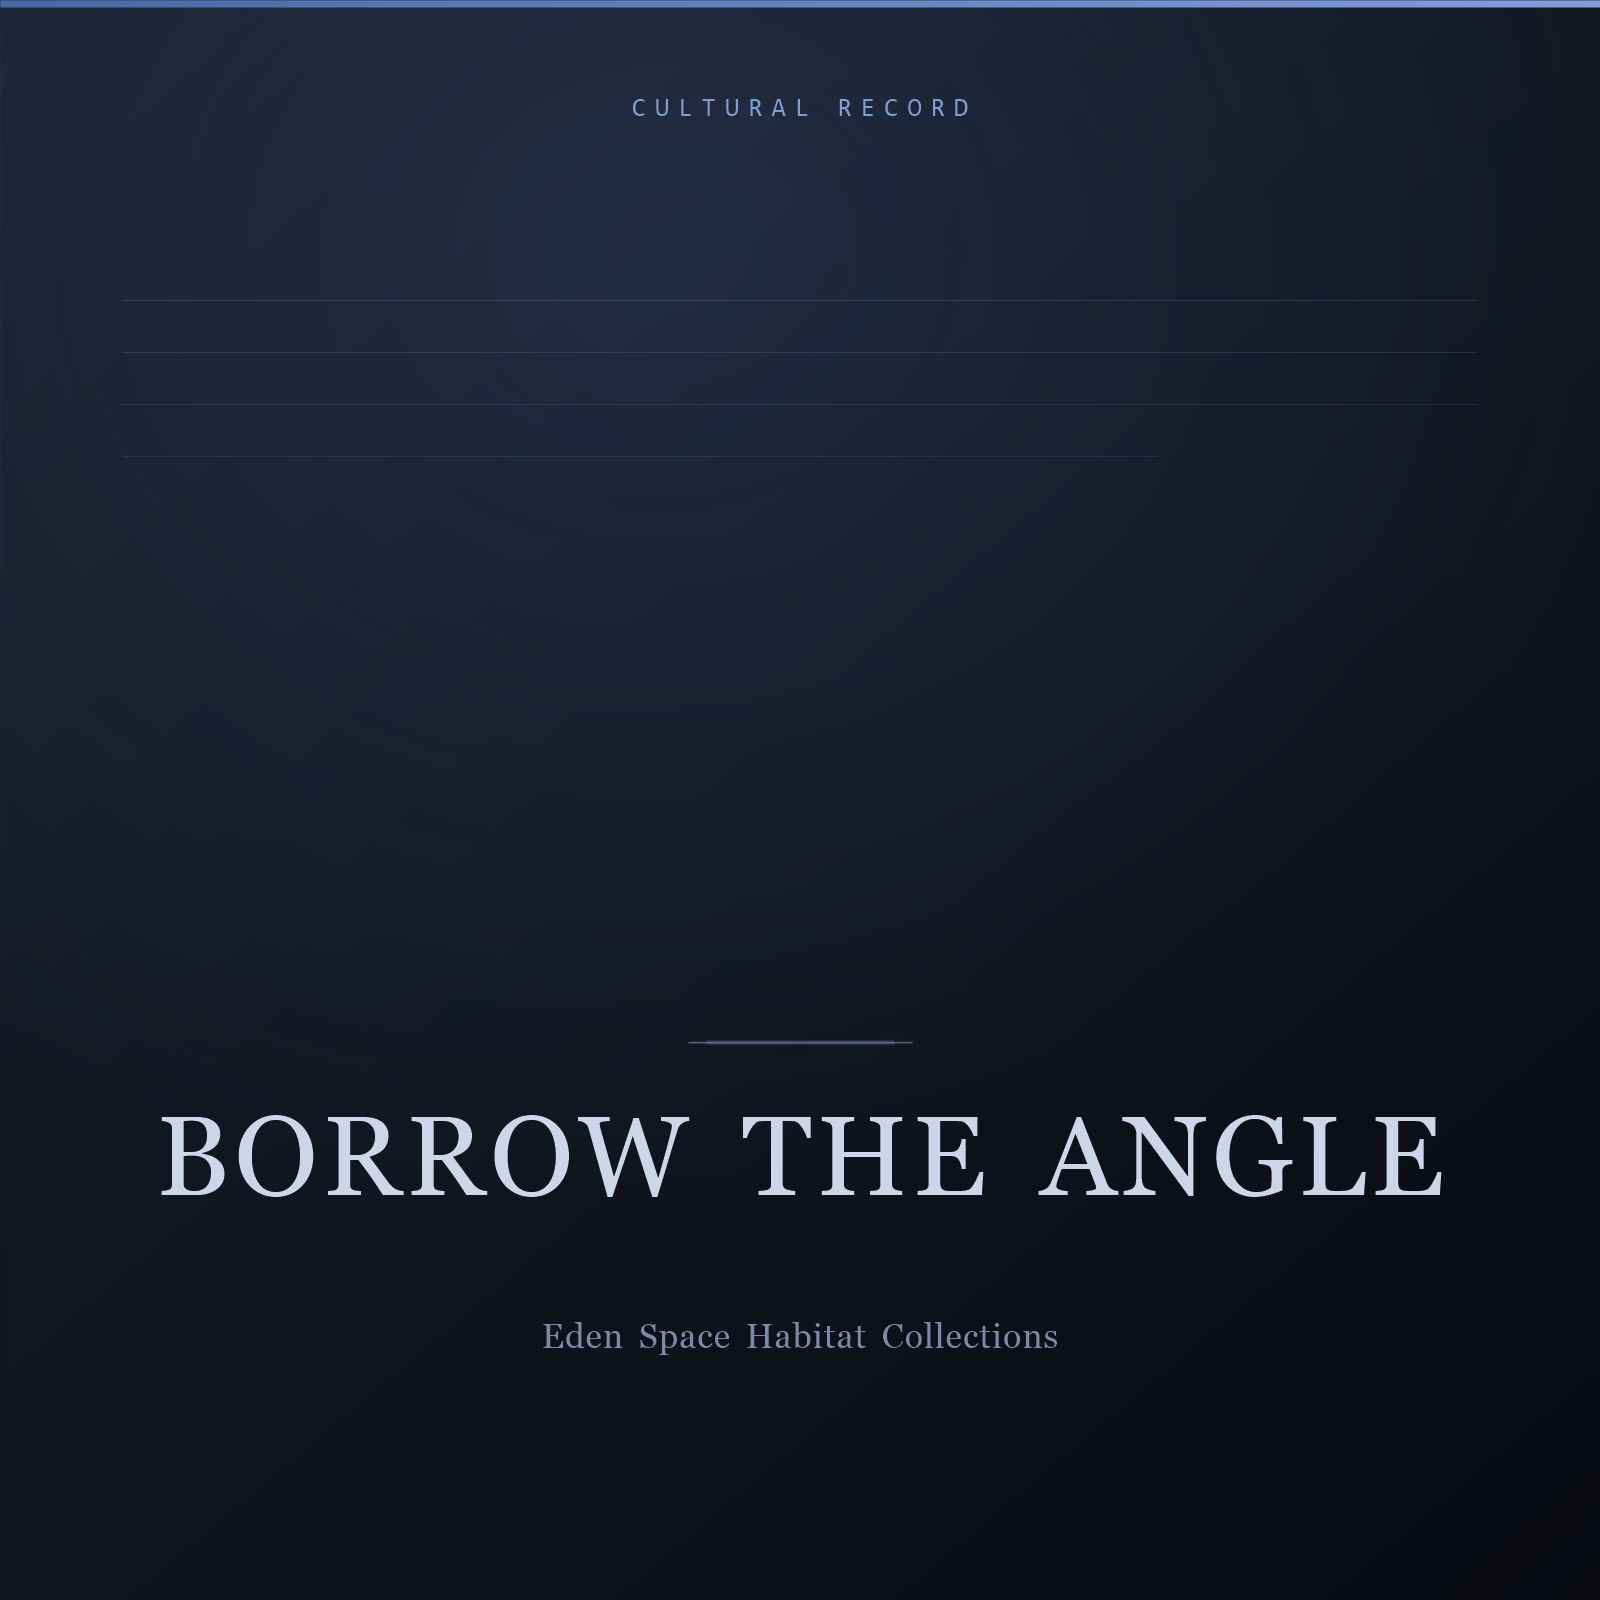
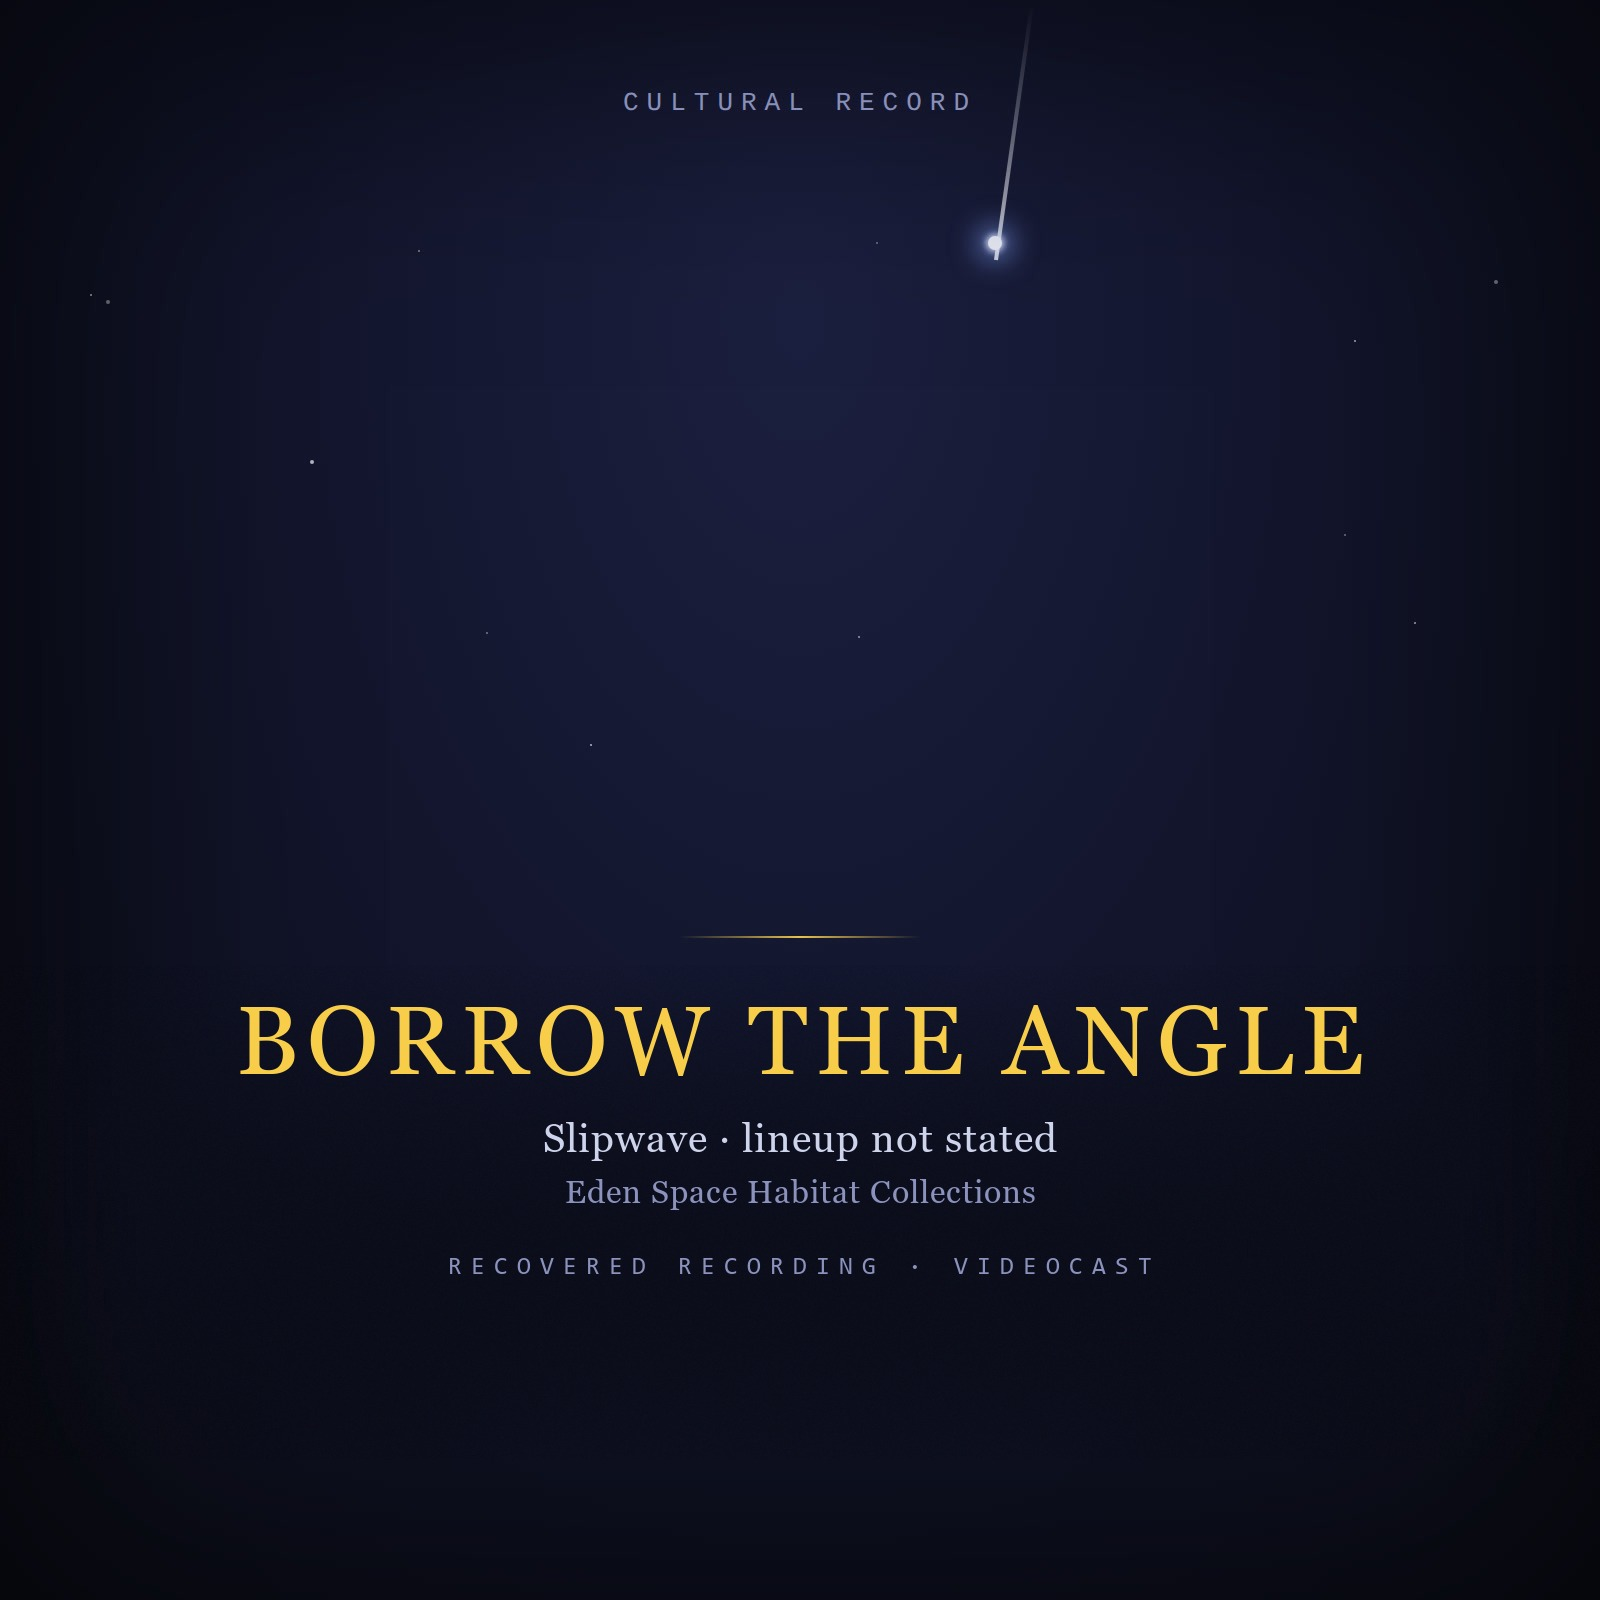
Match the two newer Slipwave covers to the set

diff --git a/story-bible/reference-art/slipwave_cover.py b/story-bible/reference-art/slipwave_cover.py
@@ -1,0 +1,64 @@
+"""Remake a Slipwave codex cover in the set's look from the Anthem cover.
+py slipwave_cover.py OUT "LINE 1" ["LINE 2"]"""
+import sys
+import numpy as np
+from PIL import Image, ImageDraw, ImageFont, ImageFilter
+
+BASE = 'src/images/codex/star-rangers-anthem.jpg'
+out, lines = sys.argv[1], sys.argv[2:]
+im = Image.open(BASE).convert('RGB')
+a = np.asarray(im).astype(np.float32)
+H, W, _ = a.shape
+y0, y1 = 965, 1460          # the text block under the gold rule
+xl, xr = 140, 1460          # clean margins either side of it
+# start from a per-row interpolation between the clean margins
+for y in range(y0, y1):
+    left = a[y, xl - 20:xl].mean(axis=0)
+    right = a[y, xr:xr + 20].mean(axis=0)
+    tt = np.linspace(0, 1, xr - xl)[:, None]
+    a[y, xl:xr] = left * (1 - tt) + right * tt
+# then let the surrounding pixels diffuse in (a harmonic fill follows the vignette)
+Y0, Y1, X0, X1 = y0 - 40, y1 + 40, xl - 40, xr + 40
+r = 12
+for _ in range(400):
+    sub = a[Y0:Y1, X0:X1]
+    c = np.cumsum(np.cumsum(np.pad(sub, ((r + 1, r), (r + 1, r), (0, 0)), mode='edge'), 0), 1)
+    k = 2 * r + 1
+    box = (c[k:, k:] - c[:-k, k:] - c[k:, :-k] + c[:-k, :-k]) / (k * k)
+    a[y0:y1, xl:xr] = box[y0 - Y0:y1 - Y0, xl - X0:xr - X0]
+rng = np.random.default_rng(3)
+a[y0:y1] += rng.normal(0, 1.2, a[y0:y1].shape)
+im = Image.fromarray(a.clip(0, 255).astype(np.uint8))
+d = ImageDraw.Draw(im)
+
+gold = (247, 205, 74)
+pale = (206, 212, 236)
+muted = (140, 146, 190)
+title_font = ImageFont.truetype('georgia.ttf', 96)
+sub_font = ImageFont.truetype('georgia.ttf', 40)
+sub2_font = ImageFont.truetype('georgia.ttf', 32)
+mono = ImageFont.truetype('consola.ttf', 25)
+
+def spaced(text, font, tracking):
+    w = sum(d.textlength(c, font=font) for c in text) + tracking * (len(text) - 1)
+    return w
+
+def draw_tracked(y, text, font, fill, tracking):
+    w = spaced(text, font, tracking)
+    x = (W - w) / 2
+    for c in text:
+        d.text((x, y), c, font=font, fill=fill)
+        x += d.textlength(c, font=font) + tracking
+
+y = 985
+for ln in lines:
+    draw_tracked(y, ln, title_font, gold, 8)
+    y += 108
+y += 22
+draw_tracked(y, 'Slipwave · lineup not stated', sub_font, pale, 1)
+y += 58
+draw_tracked(y, 'Eden Space Habitat Collections', sub2_font, muted, 1)
+y += 82
+draw_tracked(y, 'RECOVERED RECORDING · VIDEOCAST', mono, muted, 9)
+im.save(out, quality=92)
+print('wrote', out)

diff --git a/CHANGELOG.md b/CHANGELOG.md
@@ -6,6 +6,8 @@ The format loosely follows [Keep a Changelog](https://keepachangelog.com/en/1.1.
 
 ## [Unreleased]
 
+- **The two newer Slipwave codex covers now match the set** (`src/images/codex/borrow-the-angle.jpg`, `odonata-raise-your-banners.jpg`, both entries' `image_alt`, `story-bible/image-prompts.md`, 2026-10-11, at Dermot's word that the codex songs should carry the existing covers). Built from the Anthem cover's starfield and trailing star with the new titles in gold serif, replacing the plain cards of 8 October.
+
 - **Photorealism audit of the lore and hero images** (`story-bible/images.md`, 2026-10-11, from Dermot's question whether images such as the Prismeri are photorealistic enough). Every non-card image under `src/images/lore/` and `src/images/hero/` that is not one of his own frames was judged by eye: 94 read as photographs, 39 do not (the twelve-image Prismere and Prismeri set, seven hero banners, and twenty lore images), and 19 show abstract or immaterial subjects where non-photographic art is right; the causes in the prompts, a batch order and two decisions for him are recorded. Nothing was regenerated.
 
 - **The Celtic Union's ceremonial flag** (`src/lore/celtic-union-of-planets.md`, `story-bible/species-design.md`, `story-bible/intake-2026-10-11.md`, 2026-10-11, Dermot's choices). Six small pale stars in a ring on deep sea-blue, one for each ark of the Currach Fleet, flown only on ceremonial occasions and never on working kit. Non-human peoples mark belonging in their own media, defined per people when a page needs it.

diff --git a/src/codex/odonata-raise-your-banners.md b/src/codex/odonata-raise-your-banners.md
@@ -7,7 +7,7 @@ tags: [slipwave, videocast, odonata, dragonflies, tissadelle-shepherd, perrin-as
 description: "Surviving videocast and captioned lines of 'Odonata: Raise Your Banners,' a Slipwave recording with pictures laid over it later — dragonflies as couriers, pilots and watchers, from the band that would one day sing 'no banner.'"
 author: "Slipwave (lineup not stated on the recording)"
 image: "odonata-raise-your-banners.jpg"
-image_alt: "Designed cover for 'Odonata: Raise Your Banners': the category CULTURAL RECORD in spaced capitals, a faint motif of ruled lines, and below a rule the title in pale serif capitals over Eden Space Habitat Collections, on a dark blue-black gradient, in the codex's plain card style."
+image_alt: "Designed cover for 'Odonata: Raise Your Banners': the title in gold serif capitals over a dark starfield with a trailing star, above Slipwave, lineup not stated, and Eden Space Habitat Collections, matching the site's other Slipwave recording covers."
 institution: "Eden Space Habitat civilian arts circuit — no formal Star Rangers commission"
 location: "Habitat-circuit audio stock, Eden Space Habitat; one surviving videocast, pictures uncredited"
 ---

diff --git a/src/codex/borrow-the-angle.md b/src/codex/borrow-the-angle.md
@@ -7,7 +7,7 @@ tags: [slipwave, videocast, xenomusicology, dragonflies, tissadelle-shepherd, pe
 description: "Surviving videocast and captioned lines of 'Borrow the Angle,' a Slipwave recording about reading a pattern by time and touch and listening, with pictures laid over it later — the nearest thing in the band's catalogue to a statement of method."
 author: "Slipwave (lineup not stated on the recording)"
 image: "borrow-the-angle.jpg"
-image_alt: "Designed cover for 'Borrow the Angle': the category CULTURAL RECORD in spaced capitals, a faint motif of ruled lines, and below a rule the title in pale serif capitals over Eden Space Habitat Collections, on a dark blue-black gradient, in the codex's plain card style."
+image_alt: "Designed cover for 'Borrow the Angle': the title in gold serif capitals over a dark starfield with a trailing star, above Slipwave, lineup not stated, and Eden Space Habitat Collections, matching the site's other Slipwave recording covers."
 institution: "Eden Space Habitat civilian arts circuit — no formal Star Rangers commission"
 location: "Habitat-circuit audio stock, Eden Space Habitat; one surviving videocast, pictures uncredited"
 ---

diff --git a/story-bible/image-prompts.md b/story-bible/image-prompts.md
@@ -1125,6 +1125,8 @@ flags the issue set out, no underlay, default motif:
 They match the codex's plain cards rather than the Ballad cover; the alts
 say so. Remaking them in the Ballad look is open until the underlay exists.
 
+**Remade in the set's look, 11 October 2026** (Dermot, on the codex index: *"There should be existing covers for the codex songs"*, then *"design or choose fonts as needed"*). The underlay was never found, so both covers were built from `star-rangers-anthem.jpg` itself: its starfield, trailing star, *Cultural Record* header and gold rule kept, the text block under the rule cleared by a diffusion fill that follows the vignette, and the new lines set in Georgia (title, gold, tracked; subtitles) and Consolas (the spaced bottom line), the nearest faces on this machine to the set's DejaVu Serif and Sans Mono. Lines: the title; *Slipwave · lineup not stated*; *Eden Space Habitat Collections*; *RECOVERED RECORDING · VIDEOCAST*. Recipe kept at `story-bible/reference-art/slipwave_cover.py`.
+
 ## 2026-10-11 — Cnoc na mBeach, a composite on Dermot's own plate
 
 ### cnoc-na-mbeach.jpg — filed from run 1 variation 1
